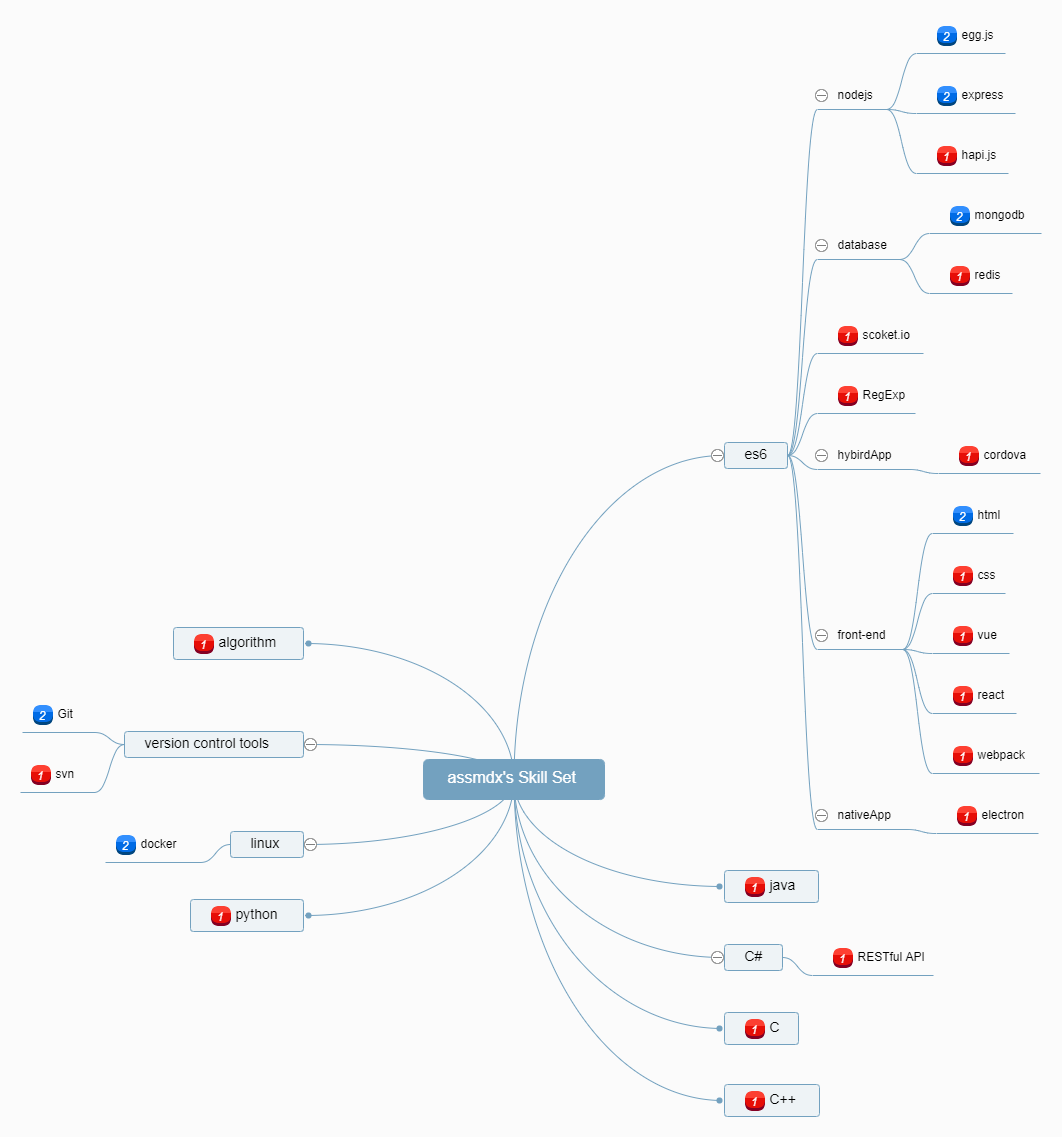
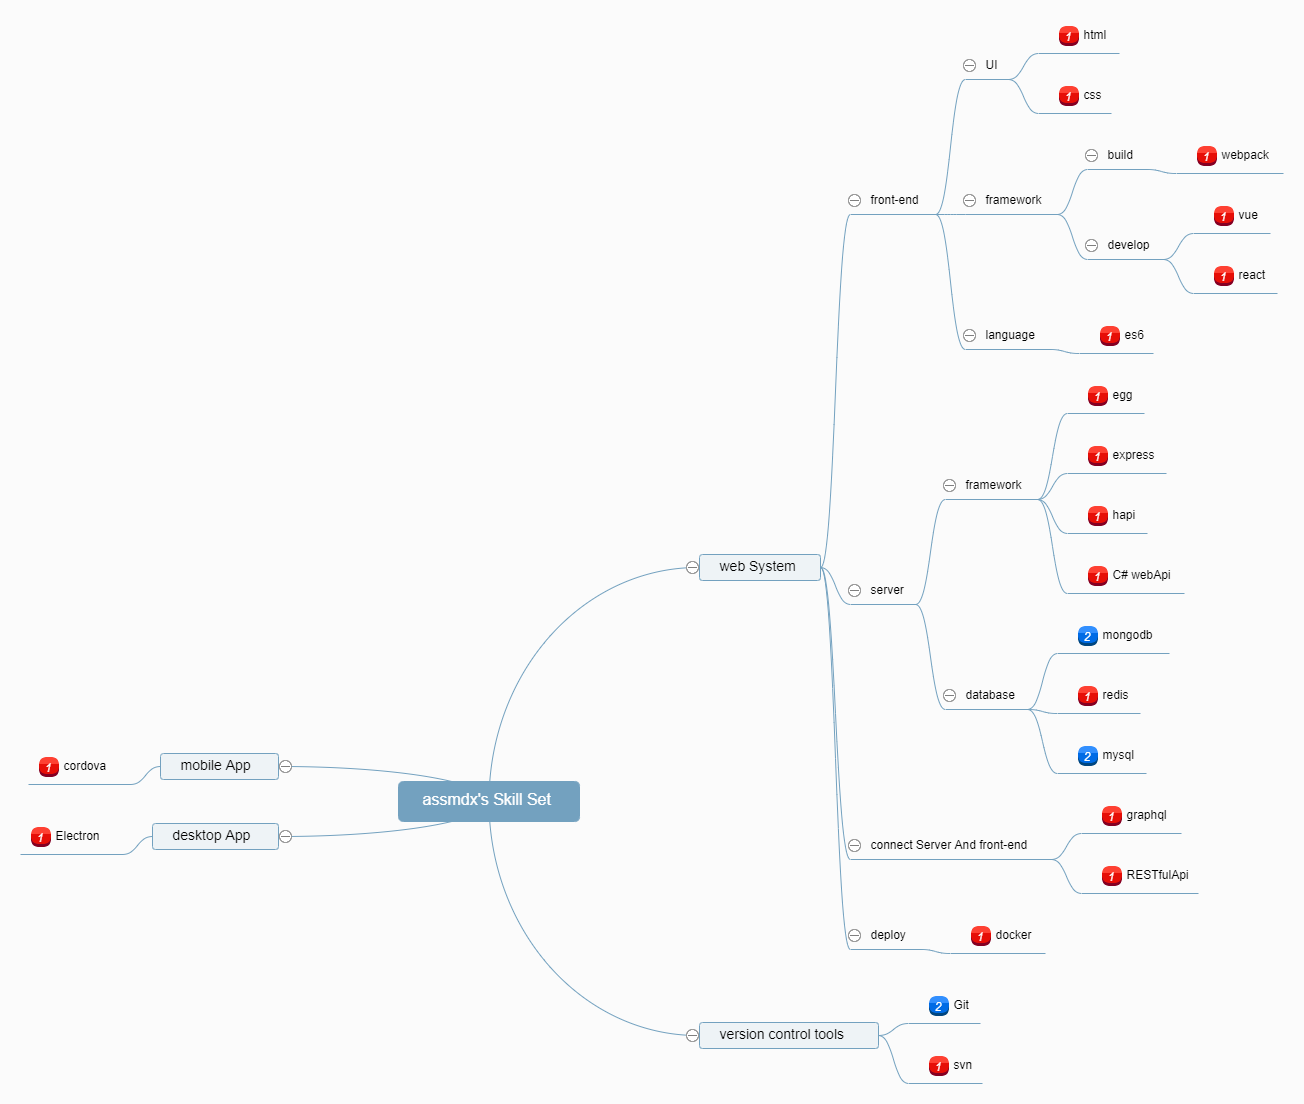
change skill tree

diff --git a/public/bundle.js b/public/bundle.js
@@ -1,1 +1,1 @@
-!function(e){var t={};function n(o){if(t[o])return t[o].exports;var r=t[o]={i:o,l:!1,exports:{}};return e[o].call(r.exports,r,r.exports,n),r.l=!0,r.exports}n.m=e,n.c=t,n.d=function(e,t,o){n.o(e,t)||Object.defineProperty(e,t,{configurable:!1,enumerable:!0,get:o})},n.r=function(e){Object.defineProperty(e,"__esModule",{value:!0})},n.n=function(e){var t=e&&e.__esModule?function(){return e.default}:function(){return e};return n.d(t,"a",t),t},n.o=function(e,t){return Object.prototype.hasOwnProperty.call(e,t)},n.p="",n(n.s=1)}([function(e){e.exports={name:"assmdx",skillset:{es6:{nodejs:{"egg.js":2,express:2,"hapi.js":1},database:{mongodb:2,redis:1},"scoket.io":1,RegExp:1,hybirdApp:{cordova:1},"front-end":{vue:1,react:1,webpack:1.5},nativeApp:{electron:1}},java:1,"C#":{"RESTful API":1},C:1,"C++":1,algorithm:1,"version control tools":{Git:2,svn:1},linux:{docker:1},HTML:1,css:1}}},function(e,t,n){"use strict";function o(e){e=JSON.parse(e);try{let t={root:{data:{text:e.name+"'s Skill Set"},children:[]}};return function e(t,n){for(let o in t){if(!t.hasOwnProperty(o)||o.startsWith("."))continue;let r={data:{text:o},children:[]},i=t[o];"object"==typeof i||"string"==typeof i?(i[".level"]&&(r.data.priority=i[".level"]),e(i,r.children)):r.data.priority=i,n.push(r)}}(e.skillset,t.root.children),JSON.stringify(t)}catch(e){return null}}n.r(t);var r=n(0);window.onload=(()=>{const e=ace.edit("editor"),t=ace.require("ace/mode/json").Mode;e.session.setMode(new t),e.setValue(JSON.stringify(r,null,"  "));const n=window.km=new kityminder.Minder;function i(){n.importData("json",o(e.getValue()))}n.renderTo("#minder-view"),i(),n.disable(),n.execCommand("hand"),document.querySelector("#generate-btn").onclick=i,document.querySelector("#save-btn").onclick=function(){n.exportData("png").then(e=>{const t=document.createElement("a");t.href=e,t.download="skill-set.png",t.click(),document.querySelector("canvas").remove()})}})}]);
+!function(e){var t={};function n(r){if(t[r])return t[r].exports;var o=t[r]={i:r,l:!1,exports:{}};return e[r].call(o.exports,o,o.exports,n),o.l=!0,o.exports}n.m=e,n.c=t,n.d=function(e,t,r){n.o(e,t)||Object.defineProperty(e,t,{configurable:!1,enumerable:!0,get:r})},n.r=function(e){Object.defineProperty(e,"__esModule",{value:!0})},n.n=function(e){var t=e&&e.__esModule?function(){return e.default}:function(){return e};return n.d(t,"a",t),t},n.o=function(e,t){return Object.prototype.hasOwnProperty.call(e,t)},n.p="",n(n.s=1)}([function(e){e.exports={name:"assmdx",skillset:{"web System":{"front-end":{UI:{html:1,css:1},framework:{build:{webpack:1},develop:{vue:1,react:1}},language:{es6:1}},server:{framework:{egg:1,express:1,hapi:1,"C# webApi":1},database:{mongodb:2,redis:1,mysql:2}},"connect Server And front-end":{graphql:1,RESTfulApi:1},deploy:{docker:1}},"version control tools":{Git:2,svn:1},"mobile App":{cordova:1},"desktop App":{Electron:1}}}},function(e,t,n){"use strict";function r(e){e=JSON.parse(e);try{let t={root:{data:{text:e.name+"'s Skill Set"},children:[]}};return function e(t,n){for(let r in t){if(!t.hasOwnProperty(r)||r.startsWith("."))continue;let o={data:{text:r},children:[]},i=t[r];"object"==typeof i||"string"==typeof i?(i[".level"]&&(o.data.priority=i[".level"]),e(i,o.children)):o.data.priority=i,n.push(o)}}(e.skillset,t.root.children),JSON.stringify(t)}catch(e){return null}}n.r(t);var o=n(0);window.onload=(()=>{const e=ace.edit("editor"),t=ace.require("ace/mode/json").Mode;e.session.setMode(new t),e.setValue(JSON.stringify(o,null,"  "));const n=window.km=new kityminder.Minder;function i(){n.importData("json",r(e.getValue()))}n.renderTo("#minder-view"),i(),n.disable(),n.execCommand("hand"),document.querySelector("#generate-btn").onclick=i,document.querySelector("#save-btn").onclick=function(){n.exportData("png").then(e=>{const t=document.createElement("a");t.href=e,t.download="skill-set.png",t.click(),document.querySelector("canvas").remove()})}})}]);
